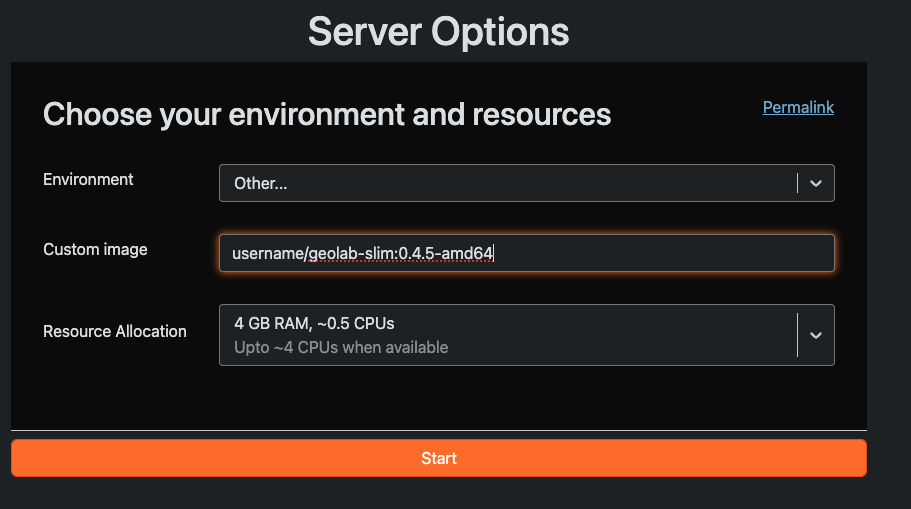
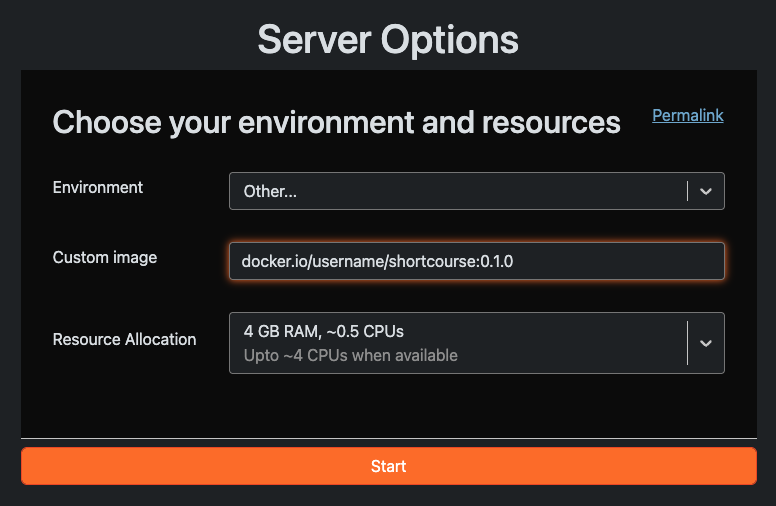
repo cleanup before merge

Changed region(s): [[0.0, 0.0296, 0.9897, 0.9783]]

diff --git a/geolab-slim/build-custom-image.md b/geolab-slim/build-custom-image.md
@@ -118,8 +118,6 @@ set -e
 jupyter lab --ip=0.0.0.0 --no-browser --notebook-dir=/path/to/your/work
 ```
 
-> **Note:** Fix the typo from the original example — `jupyter lab--ip` should be `jupyter lab --ip` (space before `--ip`).
-
 ---
 
 ## Building and Pushing the Image
@@ -128,15 +126,15 @@ Once your configuration files are ready, you build the image locally and push it
 
 **Step 1 — Build the image**
 
-The `--platform linux/amd64` flag ensures the image runs on standard cloud hardware regardless of whether you're building on an Apple Silicon Mac or an Intel machine. `Dockerfile4` is the GeoLab-specific Dockerfile that wires together your four config files.
+The `--platform linux/amd64` flag ensures the image runs on standard cloud hardware regardless of whether you're building on an Apple Silicon Mac or an Intel machine. The Dockerfile wires together your four config files. Name the image using your repository username, a descriptive name and tag to track versions, such as username/shortcourse:0.1.0
 
 ```bash
-docker build --no-cache -f Dockerfile4 \
+docker build --no-cache -f Dockerfile \
   --platform linux/amd64 \
-  -t username/geolab-slim:0.4.5-amd64 .
+  -t username/shortcourse:0.1.0 .
 ```
 
-Replace `username` with your Docker Hub username (or your registry path) and `0.4.5-amd64` with your version tag.
+Replace `username` with your Docker Hub username (or your registry path) and `0.1.0` with your version tag.
 
 > **What does `--no-cache` do?** It forces Docker to re-run every build step from scratch, ensuring your latest `apt.txt`, `environment.yml`, and `requirements.txt` changes are picked up rather than reused from a previous build.
 
@@ -145,7 +143,7 @@ Replace `username` with your Docker Hub username (or your registry path) and `0.
 Push the finished image to Docker Hub, AWS ECR, or another registry so GeoLab can pull it:
 
 ```bash
-docker push username/geolab-slim:0.4.5-amd64
+docker push username/shortcourse:0.1.0
 ```
 
 > **First time?** You'll need to log in first with `docker login` (Docker Hub) or the appropriate CLI for your registry.
@@ -160,9 +158,8 @@ docker push username/geolab-slim:0.4.5-amd64
    ![Choose Environment](./images/choose_environment.png)
 
 3. Enter the full image name from your registry, e.g.:
-   ```
-   username/geolab-slim:0.4.5-amd64
-   ```
+
+  **docker.io/username/shortcourse:0.1.0**
 
    ![Enter image name](./images/custom_image.png)
 